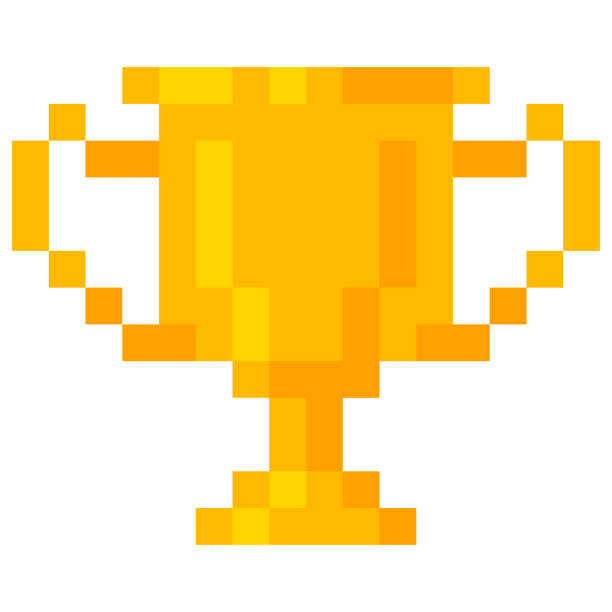
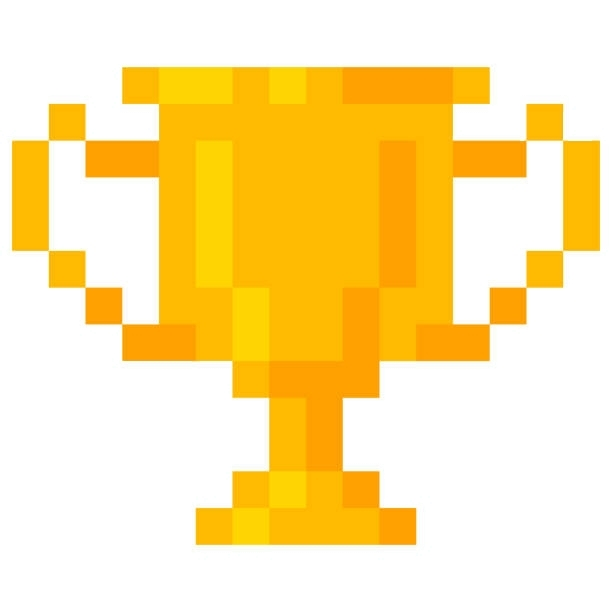
Сделал иконку ускорения, Сделал чтобы в конце показывались очки(Сделал класс Score)

diff --git a/game/levels.py b/game/levels.py
@@ -1,7 +1,7 @@
 import pygame
-import  random
+import random
 from classes import MainShip, EnemyShip, Bullet, HPBoost, HP, BigEnemyShip, Rocket, player_sprite, Laser, Alarm, \
-    SmallEnemy, load_image, Points, records
+    SmallEnemy, load_image, Points, records, SpeedBoost, score
 from config import MUSIC_VOLUME, EFFECT_VOLUME
 
 # Глоб переменные
@@ -14,7 +14,7 @@ SPEEDUPCD = pygame.USEREVENT + 5
 ALARM = pygame.USEREVENT + 6
 LASERSPAWN = pygame.USEREVENT + 7
 LASERDELETE = pygame.USEREVENT + 8
-CHANGEENEMYDIR = pygame.USEREVENT + 9 # событие смены направления мальнького кораблся
+CHANGEENEMYDIR = pygame.USEREVENT + 9  # событие смены направления мальнького кораблся
 
 # Музыка и звуки
 pygame.mixer.music.load('data\\Sounds\\BackSound.ogg')
@@ -24,7 +24,6 @@ laser_sound = pygame.mixer.Sound('data\\Sounds\\laser.wav')
 sound_shoot.set_volume(EFFECT_VOLUME)
 alarm_sound.set_volume(EFFECT_VOLUME / 3)
 laser_sound.set_volume(0.5)
-
 pygame.mixer.music.set_volume(MUSIC_VOLUME)  # Громкость музыки
 pygame.mixer.music.play(-1)
 
@@ -39,9 +38,7 @@ def start_screen(screen, clock, FPS, WIDTH, HEIGHT):
     fon = pygame.transform.scale(load_image('fon.png'), (WIDTH, HEIGHT))
     screen.blit(fon, (0, 0))
 
-
     records(12, 12, 12, 12, 100)
-
 
     # ШРИФТ
     font = pygame.font.Font(None, 30)
@@ -62,7 +59,7 @@ def start_screen(screen, clock, FPS, WIDTH, HEIGHT):
         for event in pygame.event.get():
             if event.type == pygame.QUIT:
                 pygame.quit()
-                return None
+                return "exit"
             if event.type == pygame.MOUSEBUTTONDOWN:
                 mouse_pos = event.pos
                 for i, rect in enumerate(text_rects):
@@ -78,10 +75,14 @@ def start_screen(screen, clock, FPS, WIDTH, HEIGHT):
         clock.tick(FPS)
 
 
-def lose_screen(screen,clock,FPS,WIDTH,HEIGHT):
-    intro_text = ["RETRY",
+def lose_screen(screen, clock, FPS, WIDTH, HEIGHT):
+    print(player_sprite)
+    print(score.score)
+    intro_text = [f"SCORE: {score.score}",
                   "",
-                  "RECORDS"]
+                  "RETRY!",
+                  "",
+                  "Records"]
     screen.fill((0, 0, 0))
     fon = pygame.transform.scale(load_image('LoseBackground.png'), (WIDTH, HEIGHT))
     screen.blit(fon, (0, 0))
@@ -110,13 +111,15 @@ def lose_screen(screen,clock,FPS,WIDTH,HEIGHT):
                 mouse_pos = event.pos
                 for i, rect in enumerate(text_rects):
                     if rect.collidepoint(mouse_pos):
-                        if intro_text[i] == "RETRY":
+                        if intro_text[i] == "RETRY!":
+                            score.clear()
                             return "game"
-                        elif intro_text[i] == "RECORDS":
+                        elif intro_text[i] == "Records":
                             pass
 
         pygame.display.flip()
         clock.tick(FPS)
+
 
 # Первый левел(он не такой должен быть это к примеру)
 
@@ -138,17 +141,19 @@ def level_one(screen, clock, FPS, screen_width, screen_height, all_sprites, enem
     laser_time_change = False
     # Интерфейс
     HP1 = HP(128, 16)
-    POINTS = Points(256, 16)
+    POINTS = Points(272, 16)
+    SPEEDBOOST = SpeedBoost(96, 96)
 
     # Волны врагов
     wave1 = False
-    wave2 = False
+    wave2 = True
     wave3 = False
-    wave4 = True
+    wave4 = False
 
     player = MainShip(all_sprites, player_sprite)
     enemy0 = EnemyShip(50, 300, 1, 2, player, enemy_sprites)
-    enemy1 = EnemyShip(300, 200, -1, 2, player, enemy_sprites)  # x, y, x_dir, attack_speed(чем больше тем медленее), spriteGroup
+    enemy1 = EnemyShip(300, 200, -1, 2, player,
+                       enemy_sprites)  # x, y, x_dir, attack_speed(чем больше тем медленее), spriteGroup
     enemy2 = EnemyShip(600, 300, -1, 2, player, enemy_sprites)  # также есть скрытый параметр change_dir=False
     enemy3 = EnemyShip(900, 200, 1, 2, player, enemy_sprites)
     enemy4 = EnemyShip(1200, 300, -1, 2, player, enemy_sprites)
@@ -168,6 +173,7 @@ def level_one(screen, clock, FPS, screen_width, screen_height, all_sprites, enem
                     shooting = True
                 if event.key == pygame.K_LSHIFT:
                     if not speed_boost:  # проверяем прошло ли кд
+                        SPEEDBOOST.kill()
                         player.speed += 5  # увеличиваем скорость и запускаем таймера
                         pygame.time.set_timer(SPEEDUP, 3000)
                         pygame.time.set_timer(SPEEDUPCD, 6000)
@@ -205,6 +211,7 @@ def level_one(screen, clock, FPS, screen_width, screen_height, all_sprites, enem
                 player.speed = SHIP_SPEED
             if event.type == SPEEDUPCD:  # прошло кд и можно опять использовать ускорение
                 speed_boost = False
+                SPEEDBOOST = SpeedBoost(96, 96)
             if laser_time_change:
                 alarm_time = random.randint(10000, 20000)  # спавнит предупреждение о лазере от 10 до 20 сек
                 pygame.time.set_timer(ALARM, alarm_time)
@@ -273,7 +280,7 @@ def level_one(screen, clock, FPS, screen_width, screen_height, all_sprites, enem
                     big4 = BigEnemyShip(100, 0, 1, 3, player, enemy_sprites)
         # проверка на потерю хп чтобы удалить спрайты
         hp_count = my_font.render(str(player.hp), False, (255, 255, 255))
-        points_count = my_font.render(str(player.points), False, (255, 255, 255))
+        points_count = my_font.render(str(score.score), False, (255, 255, 255))
         all_sprites.update()
         enemy_sprites.update()
         boosts_sprites.update()

diff --git a/game/classes.py b/game/classes.py
@@ -47,7 +47,7 @@ def records(EnemyShip, BigEnemyShip, Rocket, SmallEnemy, Points):
     # Сохранение изменений
     con.commit()
     result = cur.execute("""SELECT * FROM records""").fetchall()
-    print(result)
+    # print(result)
     con.close()
 
 
@@ -64,7 +64,6 @@ class MainShip(pygame.sprite.Sprite):
         self.rect.bottom = screen_height
         self.speed = SHIP_SPEED
         self.hp = SHIP_HEALTH
-        self.points = 0
         self.move_up = False
         self.move_down = False
         self.move_left = False
@@ -144,7 +143,7 @@ class EnemyShip(pygame.sprite.Sprite):
             collided_bullet = pygame.sprite.spritecollideany(self, player_bullets_sprites)
             if collided_bullet:  # проверка если попали пулей
                 collided_bullet.kill()
-                self.player.points += 1
+                score.score += 1
                 boom1 = Boom(self.image, self.rect, all_sprites, size=1.25)
                 self.kill()
             if self.direction_x == 1:
@@ -193,7 +192,7 @@ class BigEnemyShip(pygame.sprite.Sprite):
 
     def update(self):
         if self.hp == 0:
-            self.player.points += 3
+            score.score += 3
             boom2 = Boom(self.image, self.rect, all_sprites, size=2)
             self.kill()
         collided_bullet = pygame.sprite.spritecollideany(self, player_bullets_sprites)
@@ -256,7 +255,7 @@ class Rocket(pygame.sprite.Sprite):
         if collided_bullet or collided_player:
             boom_sound.play()
             if collided_bullet:
-                self.player.points += 1
+                score.score += 1
                 collided_bullet.kill()
                 Boom(self.image, self.rect, all_sprites, size=1.25, image='Boom_rocket.png', columns=3, rows=2)
                 self.kill()
@@ -339,7 +338,7 @@ class SmallEnemy(pygame.sprite.Sprite):
         else:
             collided_bullet = pygame.sprite.spritecollideany(self, player_bullets_sprites)
             if collided_bullet:  # проверка если попали пулей
-                self.player.points += 1
+                score.score += 1
                 collided_bullet.kill()
                 boom3 = Boom(self.image, self.rect, all_sprites, size=1)
                 self.kill()
@@ -418,6 +417,16 @@ class Points(pygame.sprite.Sprite):
         self.rect.y = y
 
 
+class SpeedBoost(pygame.sprite.Sprite):
+    def __init__(self, x, y):
+        super().__init__(all_sprites)
+        original_image = load_image("speed_boost.png")
+        self.image = pygame.transform.scale(original_image, (64, 64))
+        self.rect = self.image.get_rect()
+        self.rect.centerx = x
+        self.rect.y = y
+
+
 class HPBoost(pygame.sprite.Sprite):
     def __init__(self):
         super().__init__(boosts_sprites)
@@ -469,3 +478,14 @@ class Boom(pygame.sprite.Sprite):
                 self.rect = self.image.get_rect(center=self.rect.center)
             else:
                 self.kill()
+
+
+class Score:
+    def __init__(self):
+        self.score = 0
+
+    def clear(self):
+        self.score = 0
+
+
+score = Score()

diff --git a/game/config.py b/game/config.py
@@ -9,7 +9,7 @@ BIG_ENEMY_SPEED = 1
 FPS = 40
 MUSIC_VOLUME = 0.1
 EFFECT_VOLUME = 0.1
-ROCKET_SPEED = 2
+ROCKET_SPEED = 4
 # получаем информацию о дисплее
 pygame.init()
 info = pygame.display.Info()
